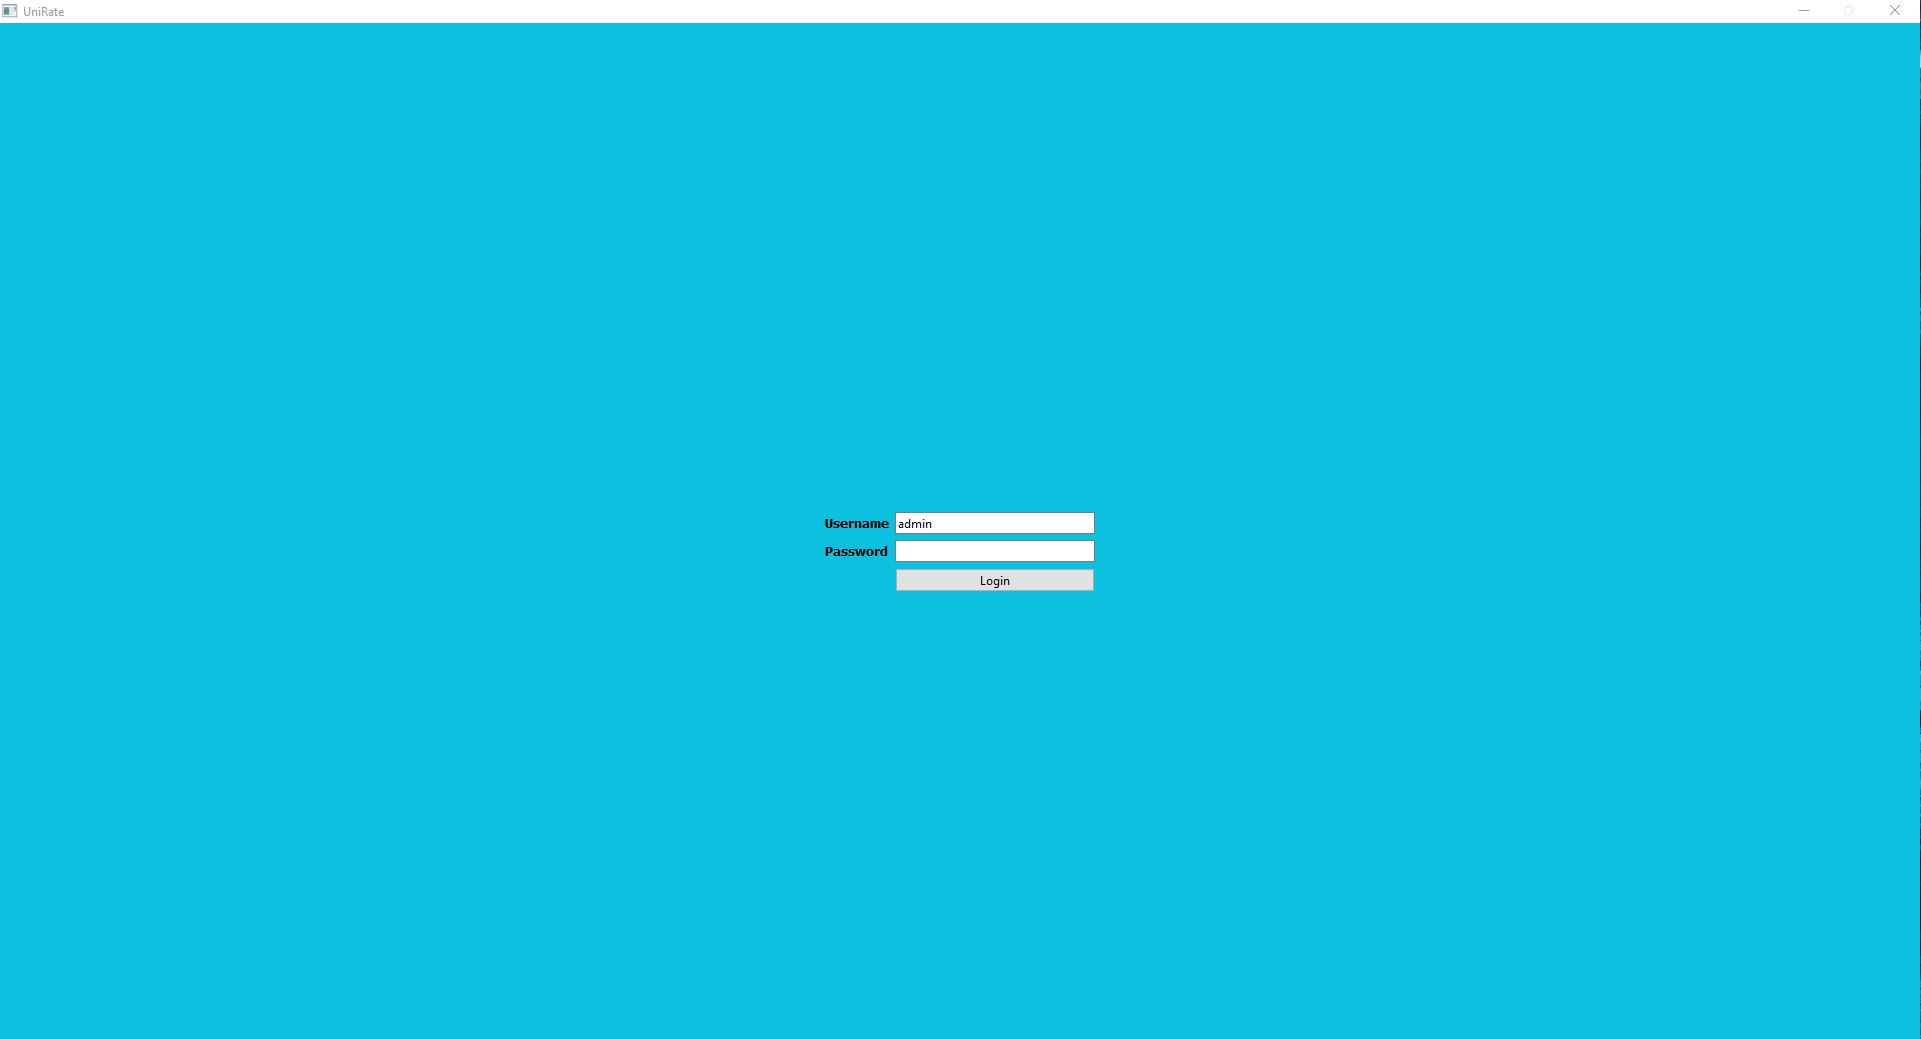
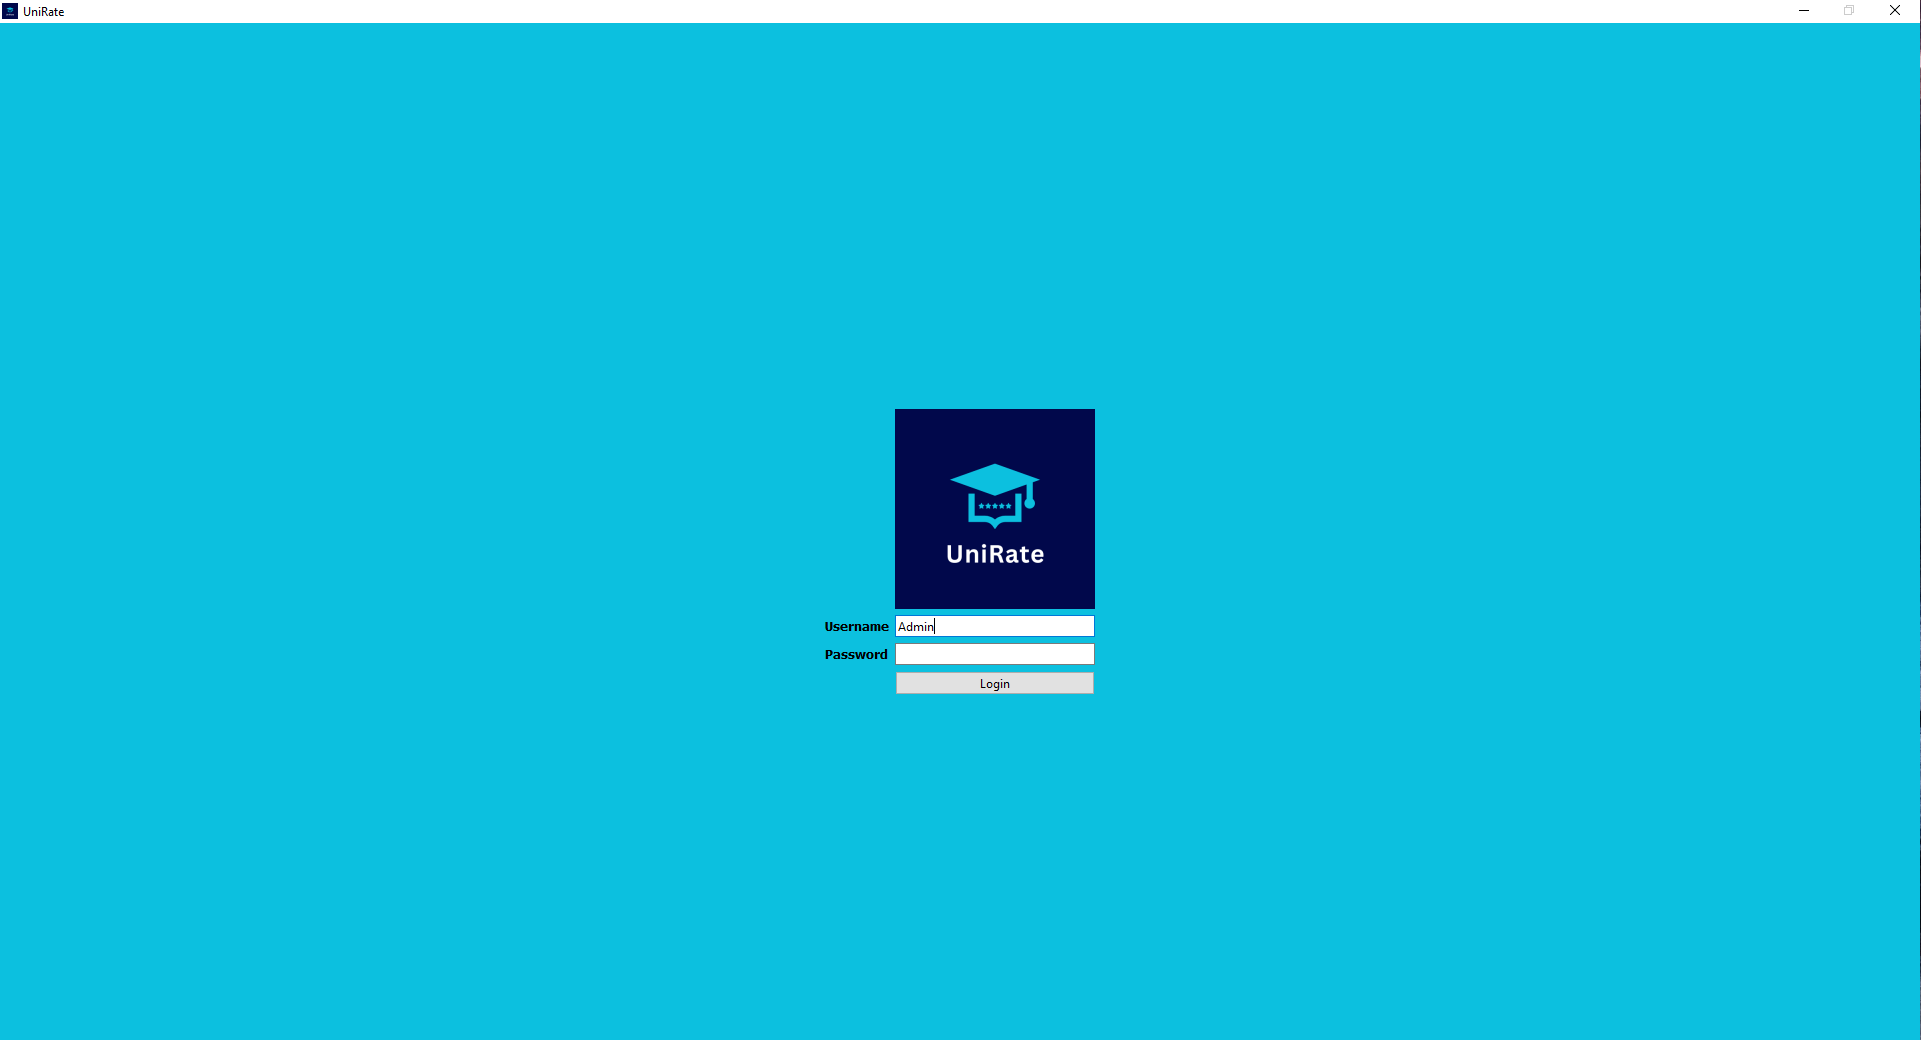
Added login image

Changed region(s): [[0.4373, 0.3696, 0.5934, 0.6776], [0.9995, 0.6776, 1.0, 0.7084], [0.0, 0.0, 0.0312, 0.0308]]

diff --git a/Windows/loginWindow.py b/Windows/loginWindow.py
@@ -2,8 +2,8 @@
 from PyQt6.QtCore import QSize, Qt, pyqtSignal, QObject
 from PyQt6.QtWidgets import QApplication, QMainWindow, QPushButton, QWidget, QGridLayout, QStackedLayout, QVBoxLayout, \
     QHBoxLayout
-from PyQt6.QtWidgets import QTabWidget, QToolBar, QLabel, QTableView, QScrollArea, QComboBox, QFileDialog, QLineEdit
-from PyQt6.QtGui import QPalette, QColor, QAction
+from PyQt6.QtWidgets import QTabWidget, QToolBar, QLabel, QTableView, QScrollArea, QComboBox, QFileDialog, QLineEdit, QGraphicsColorizeEffect
+from PyQt6.QtGui import QPalette, QColor, QAction, QPixmap
 import sys
 import PyQt6
 
@@ -19,8 +19,13 @@ class loginMain(QWidget):
         self.parentWindow = parentWindow
 
         #Widgets Setup
+        labelColor = color_effect = color_effect = QGraphicsColorizeEffect()
+        color_effect.setColor(QColor(255, 255, 255))
+
+
         self.usernameLabel = QLabel("Username")
         self.usernameLabel.setFont(Fonts.loginLabelFont)
+        
         self.passwordLabel = QLabel("Password")
         self.passwordLabel.setFont(Fonts.loginLabelFont)
 
@@ -32,16 +37,26 @@ class loginMain(QWidget):
 
         self.loginBtn = QPushButton()
         self.loginBtn.setText("Login")
+        self.loginBtn.setFixedWidth(200)
         self.loginBtn.clicked.connect(self.loginBtnAction)
+
+        self.image = QLabel("TEST")
+        self.imgPixmap = QPixmap("Images/png/uniRate_1.png")
+        self.image.setPixmap(self.imgPixmap)
+        self.image.setScaledContents(True)
+        self.image.setFixedWidth(200)
+        self.image.setFixedHeight(200)
+
 
         #Layout Setup
         self.gridLayout = QGridLayout()
         #Y, X | ROW, COLUMN
-        self.gridLayout.addWidget(self.usernameLabel, 1, 1)
-        self.gridLayout.addWidget(self.usernameField, 1, 2)
-        self.gridLayout.addWidget(self.passwordLabel, 2, 1)
-        self.gridLayout.addWidget(self.passwordField, 2, 2)
-        self.gridLayout.addWidget(self.loginBtn, 3, 2)
+        self.gridLayout.addWidget(self.image, 1, 2)
+        self.gridLayout.addWidget(self.usernameLabel, 2, 1)
+        self.gridLayout.addWidget(self.usernameField, 2, 2)
+        self.gridLayout.addWidget(self.passwordLabel, 3, 1)
+        self.gridLayout.addWidget(self.passwordField, 3, 2)
+        self.gridLayout.addWidget(self.loginBtn, 4, 2)
 
 
         #Setup automatic stretching / self centering
@@ -49,10 +64,11 @@ class loginMain(QWidget):
         #self.gridLayout.setColumnMinimumWidth(3, 500)
         self.gridLayout.setColumnStretch(0, 1)
         self.gridLayout.setColumnStretch(3, 1)
+        self.gridLayout.setColumnStretch(2, 1)
 
         #self.gridLayout.setRowMinimumHeight
         self.gridLayout.setRowStretch(0, 1)
-        self.gridLayout.setRowStretch(4, 1)
+        self.gridLayout.setRowStretch(5, 1)
         self.setLayout(self.gridLayout)
 
         self.setAutoFillBackground(True)
@@ -65,15 +81,18 @@ class loginMain(QWidget):
         #Testing
         if self.usernameField.text() == "admin":
             self.userLevel = userType.ADMIN
+            self.parentWindow.uiUpdate()
         elif self.usernameField.text() == "student":
             self.userLevel = userType.STUDENT
+            self.parentWindow.uiUpdate()
         elif self.usernameField.text() == "teacher":
             self.userLevel = userType.TEACHER
+            self.parentWindow.uiUpdate()
         elif self.usernameField.text() == "testUser":
             self.userLevel = userType.NONE
+            self.parentWindow.uiUpdate()
         else:
             self.userLevel = userType.NONE
-        self.parentWindow.uiUpdate()
         
         
 

diff --git a/GUI.py b/GUI.py
@@ -1,5 +1,7 @@
 #Global Lib Imports
 from PyQt6.QtWidgets import QApplication
+from PyQt6.QtGui import QPalette, QColor, QAction, QIcon
+from PyQt6.QtCore import QSize
 import sys
 
 #Local Lib Imports
@@ -11,6 +13,11 @@ def startLoop():
     app = QApplication(sys.argv)
 
     window = MainWindow()
+    #window.setWindowIcon(QIcon("Images/png/uniRate_1.png"))
+    app_icon = QIcon()
+    app_icon.addFile("Images/png/uniRate_1.png", QSize(16, 16))
+    app.setWindowIcon(app_icon)
+    window.setWindowTitle("UniRate")
     window.show()
     window.showMaximized()
 

diff --git a/Windows/MainWindow.py b/Windows/MainWindow.py
@@ -3,7 +3,7 @@ from PyQt6.QtCore import QSize, Qt, pyqtSignal, QObject
 from PyQt6.QtWidgets import QApplication, QMainWindow, QPushButton, QWidget, QGridLayout, QStackedLayout, QVBoxLayout, \
     QHBoxLayout
 from PyQt6.QtWidgets import QTabWidget, QToolBar, QLabel, QTableView, QScrollArea, QComboBox, QFileDialog
-from PyQt6.QtGui import QPalette, QColor, QAction
+from PyQt6.QtGui import QPalette, QColor, QAction, QIcon
 import sys
 import PyQt6
 

diff --git a/Globals.py b/Globals.py
@@ -12,3 +12,4 @@ class Colors():
 class Fonts():
      loginLabelFont = QFont("Times", 10)
      loginLabelFont.setBold(True)
+     
